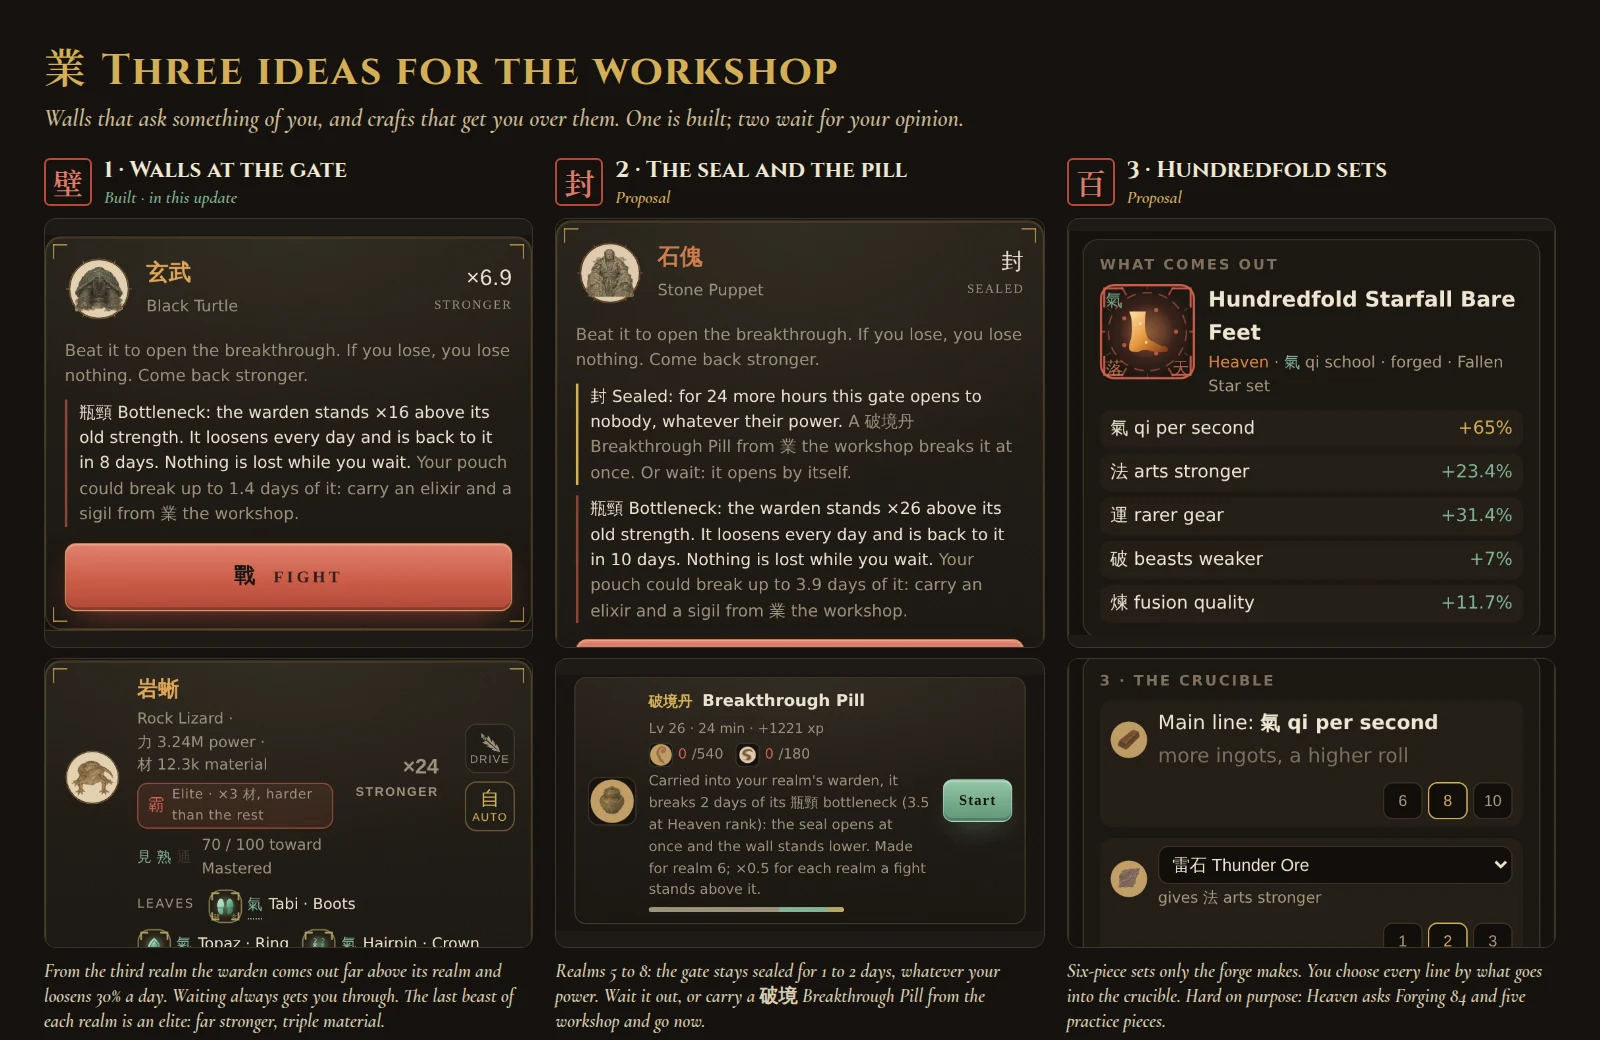
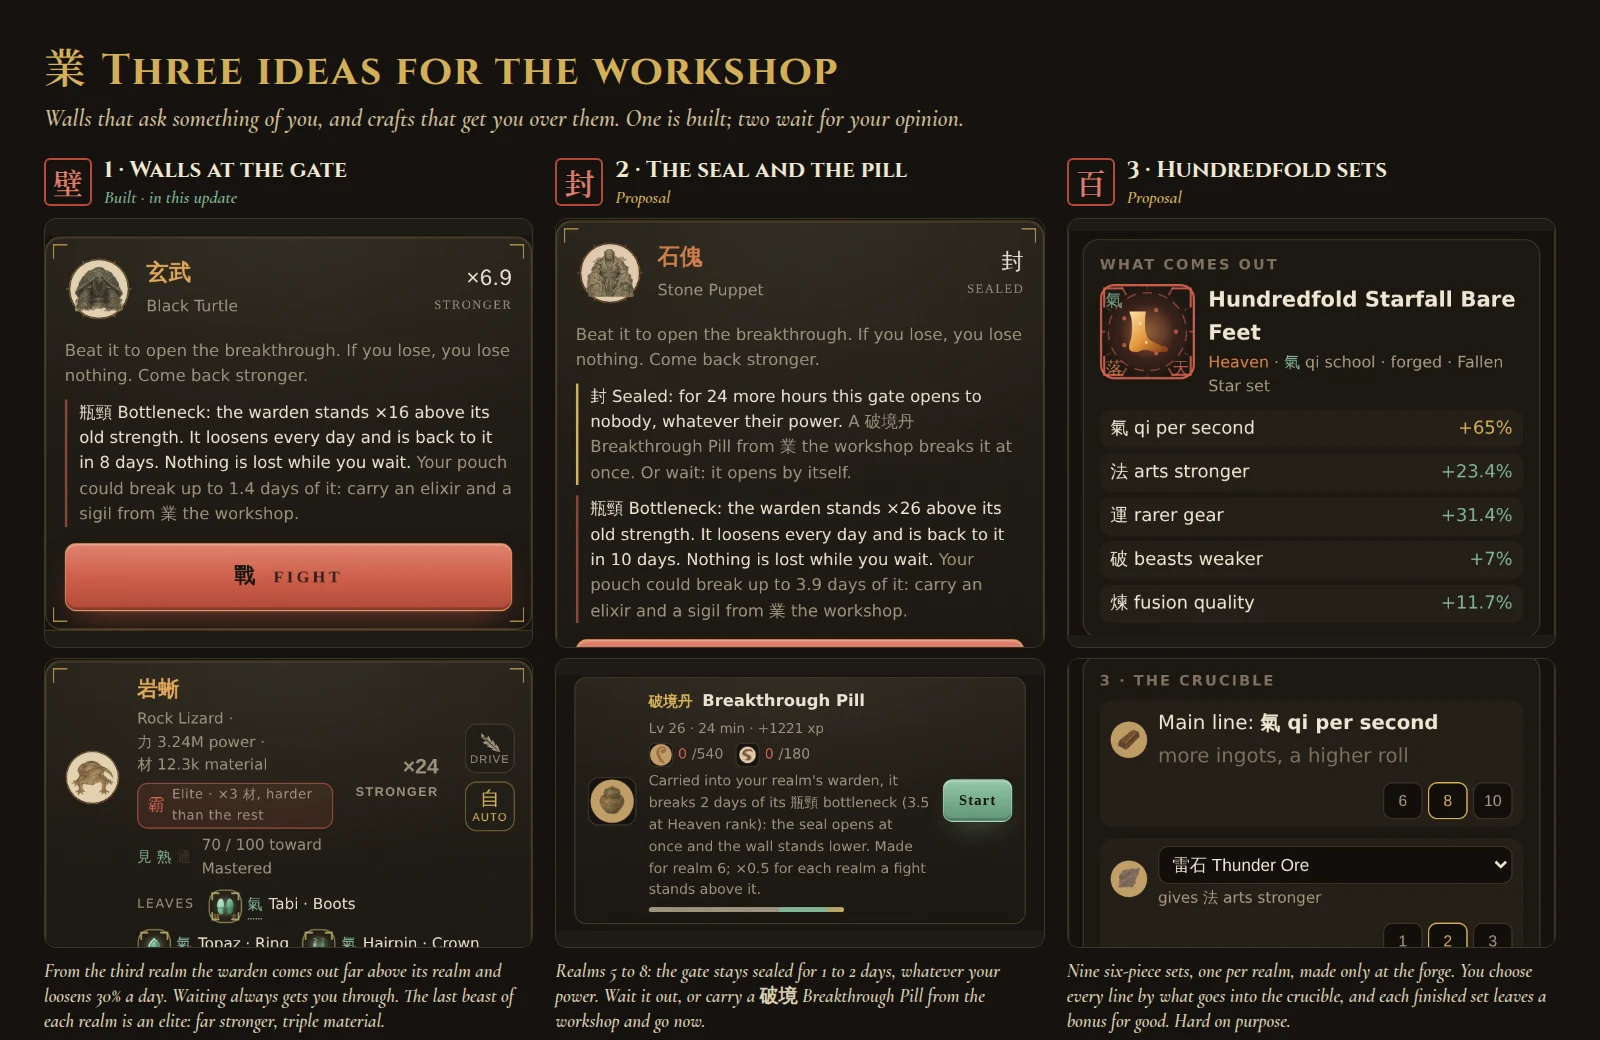
圖 Discord drafts: nine Hundredfold sets, every bonus, and the measurements as charts
The workshop proposal grows from one set to nine, one per realm, each finished set
leaving a codex bonus on a different part of the game so none is ever spare
(tools/forge-sets-data.ts). tools/forge-charts.mjs draws seven pictures from the game's
own numbers and the harness measurements: the pace of four players, what each system is
worth, the bottleneck day by day, all nine sets, one set in full, when each set opens
over half a year, and the crucible. The news and ideas drafts carry them as galleries.

Claude-Session: https://claude.ai/code/session_01AMHKBrurHARqGfuWpT85XW

Changed region(s): [[0.6562, 0.9231, 0.9688, 1.0]]

diff --git a/tools/forge-sets-data.ts b/tools/forge-sets-data.ts
@@ -1,0 +1,82 @@
+/**
+ * 百煉 The data the Hundredfold proposal pictures are drawn from: all nine forged sets,
+ * each a full six places, with the game's own tiles, its lineage bonus, its codex bonus,
+ * its forging levels, and one set (Fallen Star) worked out line by line.
+ *
+ *     npx tsx tools/forge-sets-data.ts <out.json>
+ *
+ * Read by tools/forge-ideas.mjs. Every number is the game's (REALM_SETS, baseValue,
+ * SECONDARY_SHARE, AFFIX_INFO); only the codex bonuses and the forging levels are the
+ * proposal's, and they are written here once.
+ */
+import { writeFileSync } from 'node:fs';
+import { AFFIX_INFO, GEAR, REALM_SETS, SLOTS, SLOT_INFO, baseValue, roundValue, schoolOf, type Affix, type Item, type Rarity } from '../src/data/gear.ts';
+import { SCHOOL_INFO } from '../src/data/schools.ts';
+import { SECONDARY_SHARE } from '../src/sim/balance.ts';
+import { gearTile } from '../src/art/gear.ts';
+import { tierLevel } from '../src/data/crafts.ts';
+import { commonsOf, wardenOf } from '../src/data/bestiary.ts';
+import { realm as realmOf } from '../src/data/realms.ts';
+
+/** 譜 What finishing each realm's set leaves for good: one system each, so no set is ever spare. */
+export const CODEX = [
+  { han: '狩', sys: 'Hunt', says: (k: number) => `+${5 * k}% material from every kill` },
+  { han: '霸', sys: 'Elites', says: (k: number) => `elites stand ${8 * k}% weaker` },
+  { han: '秘', sys: 'Vault', says: (k: number) => `vault gates stand ${8 * k}% weaker` },
+  { han: '心', sys: 'Heart demon', says: (k: number) => `the heart demon stands ${5 * k}% weaker` },
+  { han: '業', sys: 'Workshop', says: (k: number) => `the workshop works ${5 * k}% faster` },
+  { han: '緣', sys: 'Bonds', says: (k: number) => `+${10 * k}% bond for every win` },
+  { han: '瓶', sys: 'Gates', says: (k: number) => `each thing carried breaks ${0.5 * k} day more of a bottleneck` },
+  { han: '塔', sys: 'Tower', says: (k: number) => `tower floors stand ${5 * k}% weaker` },
+  { han: '擂', sys: 'Platform', says: (k: number) => `Platform challengers stand ${5 * k}% weaker` },
+];
+/** The three completion ranks and what they multiply a codex bonus by. */
+export const COMPLETE = [['mystic', 1], ['earth', 1.5], ['heaven', 2]] as const;
+export const LEVELS = (r: number) => {
+  const unlock = tierLevel(r) + 8;
+  return { mystic: unlock, earth: Math.min(98, unlock + 8), heaven: Math.min(99, unlock + 20) };
+};
+
+const pick = (r: number, slot: string, school = 'sword') =>
+  GEAR.filter((g) => g.realm === r && g.slot === slot)
+    .find((t) => schoolOf({ id: '', template: t.key, rarity: 'heaven', rolls: [{ affix: t.affix, value: 1 }] }) === school)
+  ?? GEAR.find((g) => g.realm === r && g.slot === slot)!;
+const line = (t: (typeof GEAR)[number], rarity: Rarity, a: Affix, second: boolean) =>
+  roundValue(a, baseValue(t, rarity, a) * (second ? SECONDARY_SHARE : 1));
+
+const sets = REALM_SETS.map((set, i) => {
+  const r = i + 1;
+  const c = commonsOf(r);
+  return {
+    realm: r, han: set.han, name: set.name, word: set.word, lore: set.lore, colour: realmOf(r).colour,
+    axes: set.axes.map((a) => AFFIX_INFO[a].label), steps: set.steps.map((s) => ({ pieces: s.pieces,
+      says: Object.entries(s.effects).map(([a, v]) => `+${v}${AFFIX_INFO[a as Affix].unit === 'flat' ? '' : '%'} ${AFFIX_INFO[a as Affix].label}`).join(', ') })),
+    levels: LEVELS(r), elite: r >= 2 && c.length ? c[c.length - 1].name : null, warden: wardenOf(r)?.name ?? null,
+    codex: { han: CODEX[i].han, sys: CODEX[i].sys, ranks: COMPLETE.map(([k, m]) => ({ rank: k, says: CODEX[i].says(m) })) },
+    tiles: SLOTS.map((slot) => {
+      const t = pick(r, slot);
+      const it: Item = { id: 'x', template: t.key, rarity: 'heaven', rolls: [{ affix: t.affix, value: 1 }], from: 'forge' };
+      return { slot, name: t.name, tile: gearTile(it, { size: 58 }) };
+    }),
+  };
+});
+
+// 落星 One set in full: a Sword build at Heaven, four lines each, two portions of every material.
+const R = 6;
+const SECOND: Affix[] = ['sunder', 'art', 'luck', 'refine'];
+const full = SLOTS.map((slot) => {
+  const t = pick(R, slot);
+  const rolls = [{ affix: t.affix, value: line(t, 'heaven', t.affix, false) },
+    ...SECOND.filter((a) => a !== t.affix).slice(0, 4).map((a) => ({ affix: a, value: line(t, 'heaven', a, true) }))];
+  const it: Item = { id: 'x', template: t.key, rarity: 'heaven', rolls, from: 'forge' };
+  return { slot: SLOT_INFO[slot].name, han: t.han, name: t.name.replace(REALM_SETS[R - 1].word, `Hundredfold ${REALM_SETS[R - 1].word}`),
+    school: SCHOOL_INFO[schoolOf(it)].seal, tile: gearTile(it, { size: 64 }),
+    lines: rolls.map((x) => ({ han: AFFIX_INFO[x.affix].han, label: AFFIX_INFO[x.affix].label, v: x.value, unit: AFFIX_INFO[x.affix].unit })) };
+});
+const totals: Record<string, { han: string; label: string; v: number; unit: string }> = {};
+for (const p of full) for (const l of p.lines) {
+  totals[l.label] ??= { han: l.han, label: l.label, v: 0, unit: l.unit };
+  totals[l.label].v = Math.round((totals[l.label].v + l.v) * 10) / 10;
+}
+writeFileSync(process.argv[2], JSON.stringify({ sets, full, totals: Object.values(totals), affix: AFFIX_INFO }));
+console.log('百煉', sets.length, 'sets', full.length, 'pieces');
